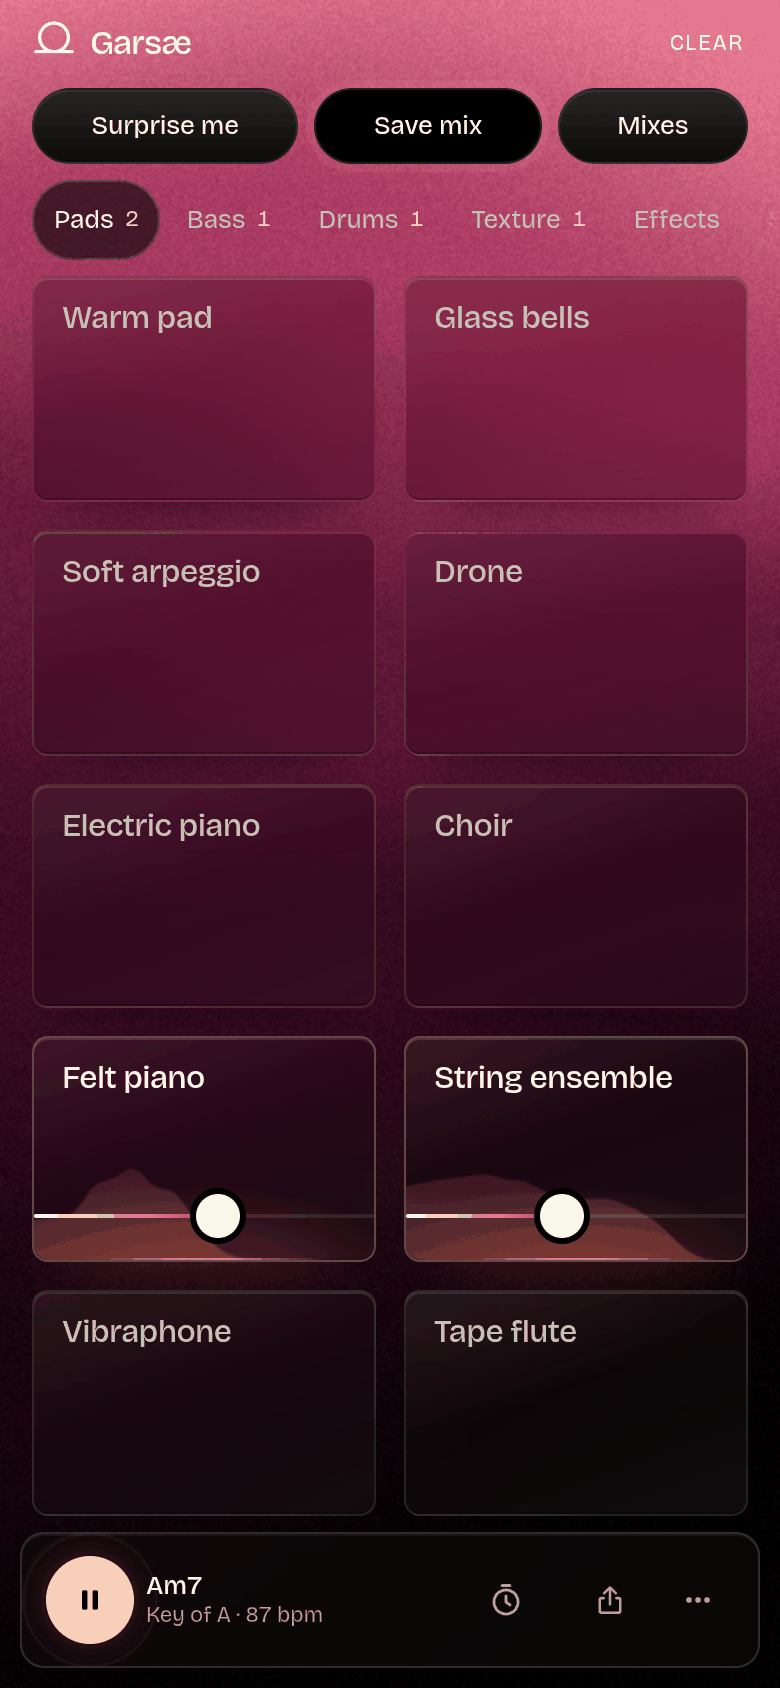
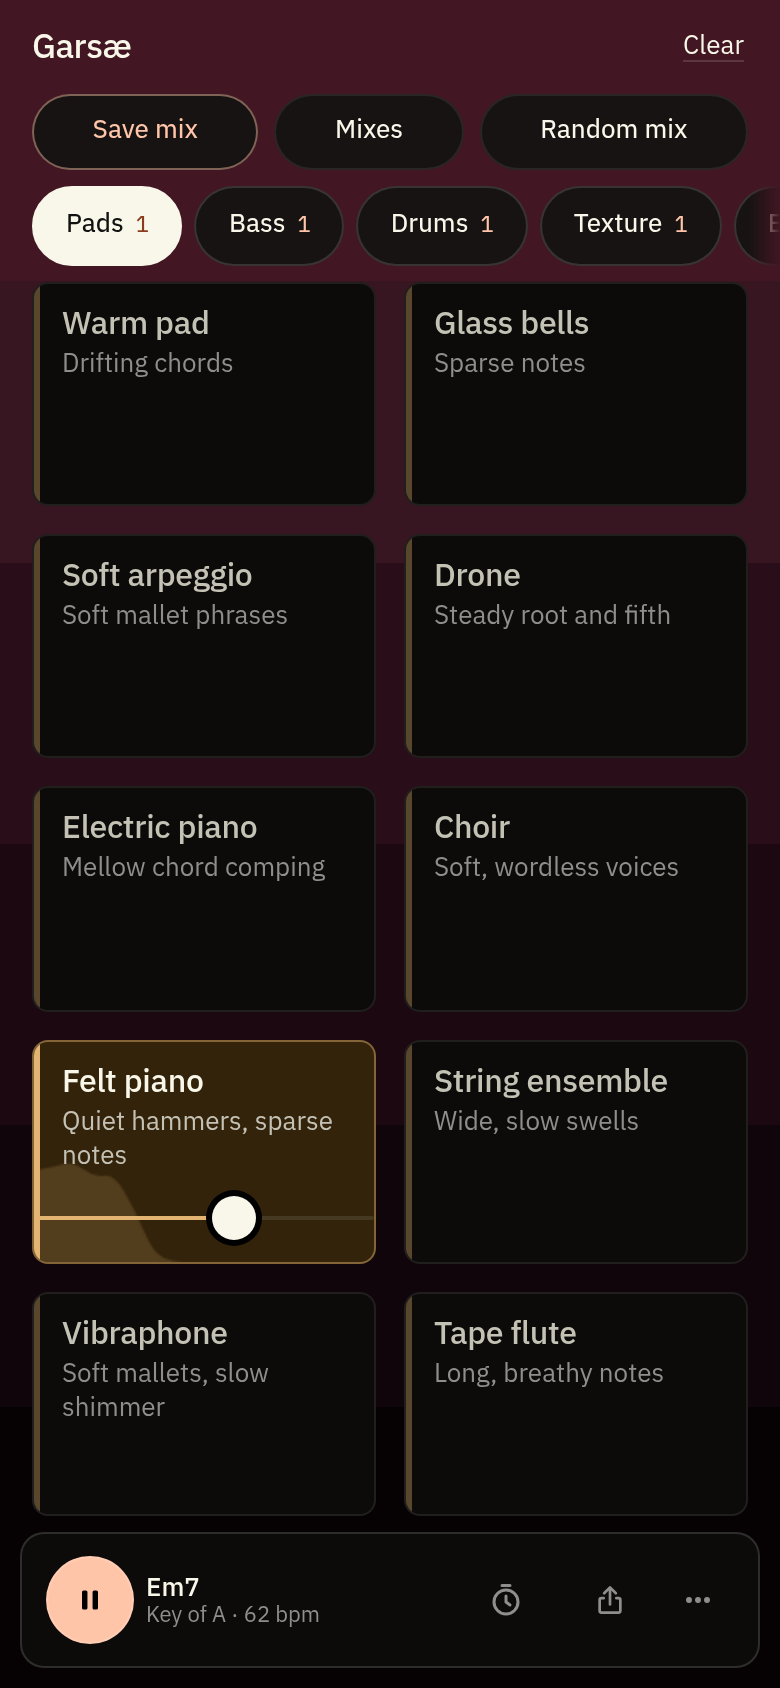
Update the README screenshots for the new design

diff --git a/README.md b/README.md
@@ -13,7 +13,7 @@
 Endless, generative focus music in the browser. Toggle instrument tiles, mix their levels, and let it run in the background. Every sound is synthesized live with the Web Audio API, so nothing repeats. See [DESIGN.md](DESIGN.md) for the full design.
 
 <p align="center">
-  <img src="docs/images/desktop.png" alt="Garsæ on desktop, playing a felt piano mix with the controls in the sidebar" width="76%">
+  <img src="docs/images/desktop.png" alt="Garsæ on desktop, playing felt piano, sub bass, brushes and vinyl crackle, with the controls in the sidebar" width="76%">
   &nbsp;
   <img src="docs/images/phone.png" alt="Garsæ on a phone, with the player floating at the bottom" width="20%">
 </p>
